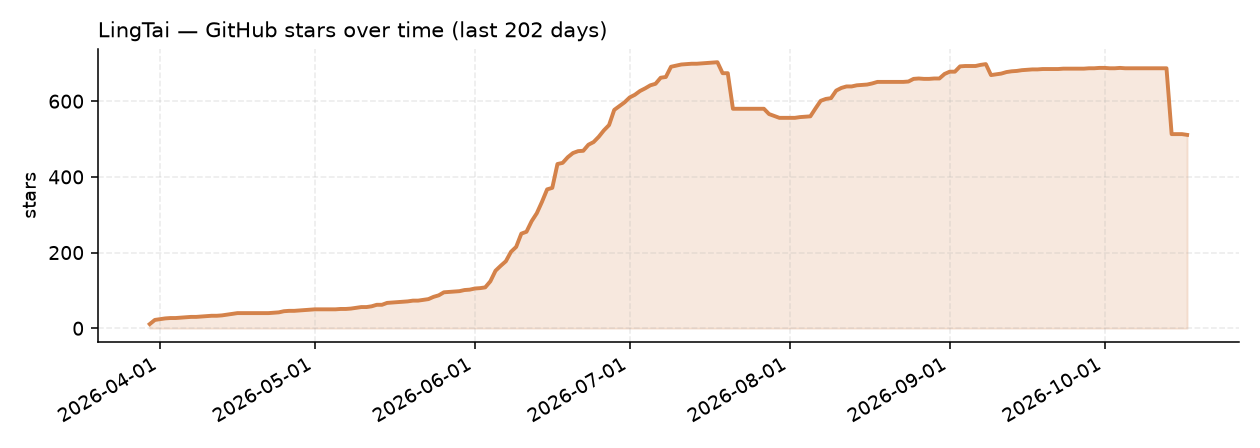
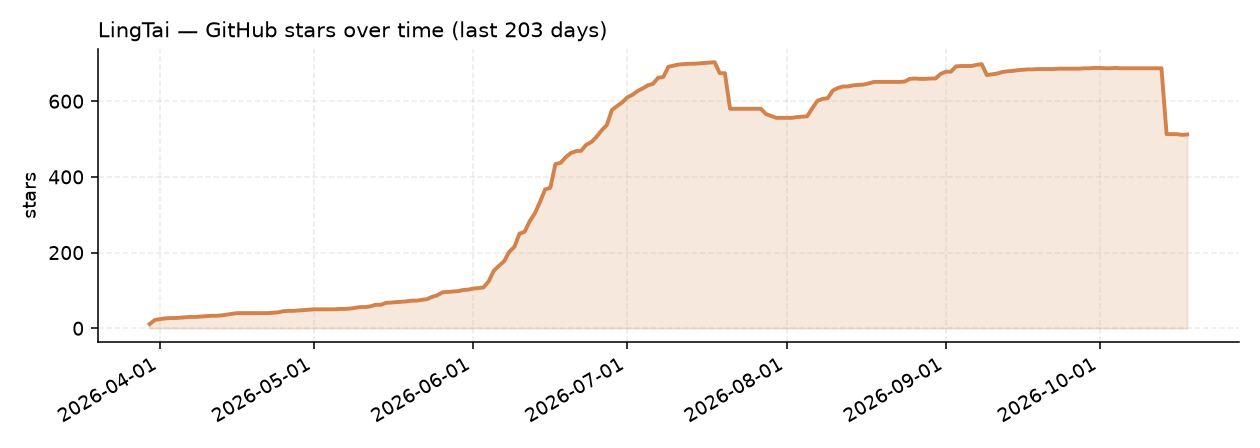
chore(stars): update daily star count

diff --git a/docs/stars/README.md b/docs/stars/README.md
@@ -1,7 +1,7 @@
 # LingTai star trend
 
-- Latest: **511** stars (2026-10-17)
-- Last 7 days: **-176**
-- Since tracking began (2026-03-30): **+500**
-- Sparkline (last 60 days): `▆▆▆▆▆▆▆▆▆▆▆▆▇▇▇▇▇▇▇▇█▆▆▇▇▇▇▇▇▇▇▇▇▇▇▇▇▇▇▇▇▇▇▇▇▇▇▇▇▇▇▇▇▇▇▇▁▁▁▁`
+- Latest: **512** stars (2026-10-18)
+- Last 7 days: **-175**
+- Since tracking began (2026-03-30): **+501**
+- Sparkline (last 60 days): `▆▆▆▆▆▆▆▆▆▆▆▇▇▇▇▇▇▇▇█▆▆▇▇▇▇▇▇▇▇▇▇▇▇▇▇▇▇▇▇▇▇▇▇▇▇▇▇▇▇▇▇▇▇▇▁▁▁▁▁`
 - Chart: `trend.png`
